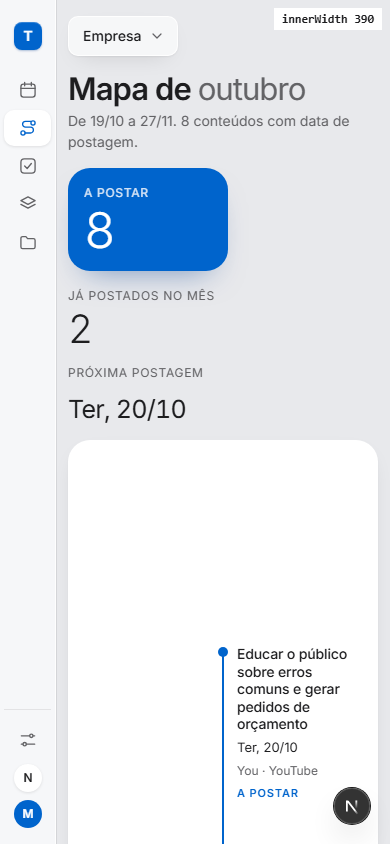
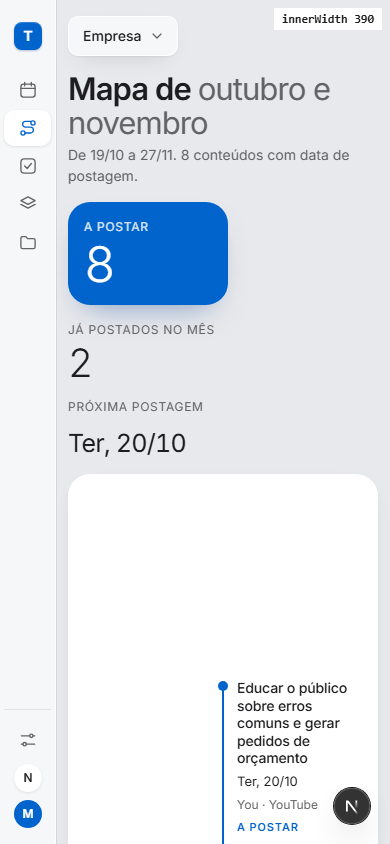
Mapa: marcos ja na tela nascem inteiros; titulo acompanha o periodo (item 60)

Changed region(s): [[0.1538, 0.0924, 0.8923, 0.5545], [0.5846, 0.7701, 0.8923, 0.9858], [0.5538, 0.7701, 0.5846, 0.8318]]

diff --git a/src/components/mapa/TelaMapa.tsx b/src/components/mapa/TelaMapa.tsx
@@ -24,12 +24,14 @@ export function TelaMapa() {
   const marcos = useMemo(() => todos.filter((t) => t.inicio!.slice(0, 10) >= INICIO), [todos]);
   const dias = useMemo(() => diasDoPeriodo(INICIO, ultimoDia(marcos)), [marcos]);
   const aPostar = marcos.filter((t) => !foiPostado(t));
+  const [m1, m2] = [nomeMes(INICIO), nomeMes(dias.at(-1)!)].map((m) => m.toLowerCase());
+  const meses = m1 === m2 ? m1 : `${m1} e ${m2}`;
   const proximo = aPostar[0]?.inicio?.slice(0, 10);
 
   return (
     <section className="mapa">
       <header className="mapa-titulo">
-        <h1>Mapa de <span>{nomeMes(INICIO).toLowerCase()}</span></h1>
+        <h1>Mapa de <span>{meses}</span></h1>
         <p>
           De {diaCurto(INICIO)} a {diaCurto(dias.at(-1)!)}.{" "}
           {marcos.length ? `${plural(marcos.length, "conteúdo", "conteúdos")} com data de postagem.` : "Nenhum conteúdo com data de postagem neste período."}
@@ -86,12 +88,10 @@ function Linha({ dias, marcos, abrir }: { dias: string[]; marcos: Tarefa[]; abri
             sub.fromTo(linhas, { yPercent: 100 }, { yPercent: 0, duration: 0.6, ease: "power2.out", stagger: 0.04 }, 0.25);
             return sub;
           };
-          let jaNaTela = 0;
           gsap.utils.toArray<HTMLElement>("[data-marco]", fx).forEach((el) => {
-            const sub = revelar(el);
             const t = (el.offsetLeft - larg * 0.62) / dist;
-            if (t <= 0) sub.delay(0.15 + jaNaTela++ * 0.12); // já está na tela: entra sozinho, sem esperar a rolagem
-            else tl.add(sub.duration(janela), Math.min(t, 1 - janela));
+            if (t <= 0) return; // já está na tela no início: nasce inteiro, a animação fica para os que entram depois
+            tl.add(revelar(el).duration(janela), Math.min(t, 1 - janela));
           });
           gsap.fromTo(".mapa-linha", { scaleX: 0 }, { scaleX: 1, duration: 1.1, ease: "power2.out" });
         }, f);
